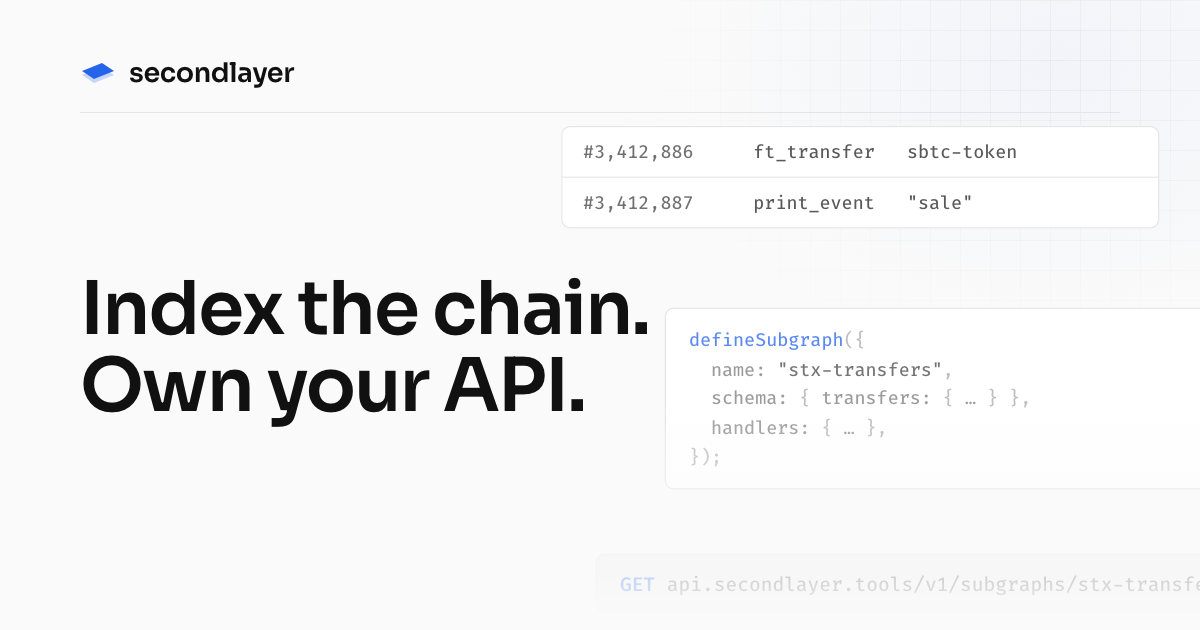
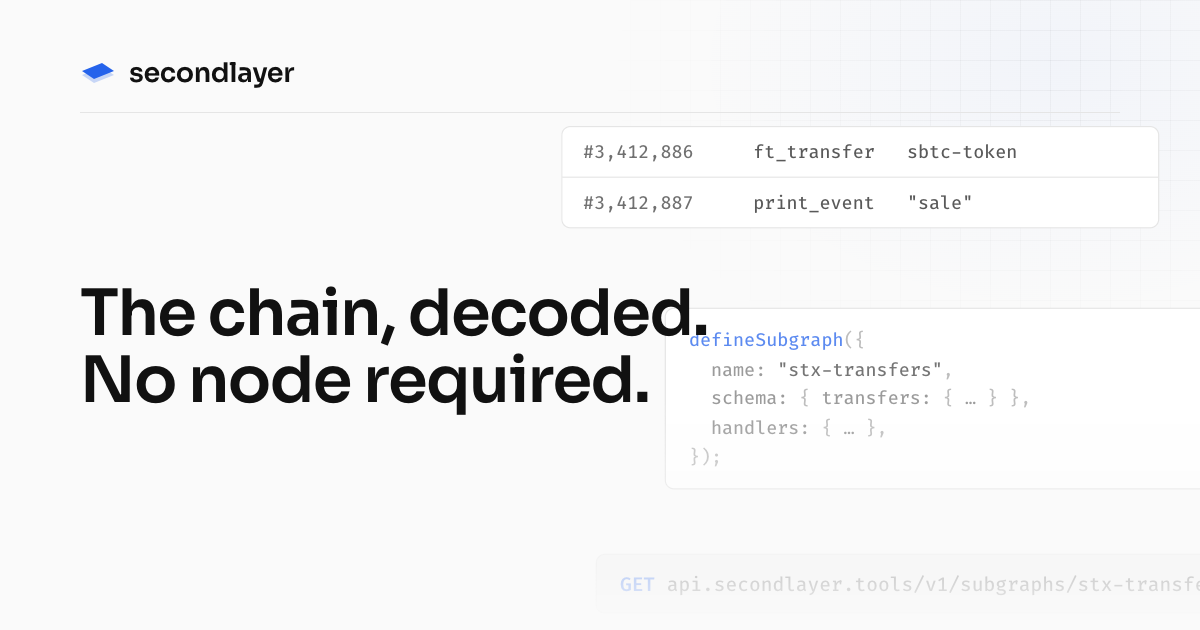
feat(web): decoded-chain hero and reads-free pricing reframe

Changed region(s): [[0.0617, 0.4222, 0.5858, 0.6937]]

diff --git a/apps/web/src/app/(www)/pricing/page.tsx b/apps/web/src/app/(www)/pricing/page.tsx
@@ -7,16 +7,14 @@ import Link from "next/link";
 export const metadata: Metadata = socialMeta({
 	title: "Pricing · secondlayer",
 	description:
-		"Free is the product, paid is the headroom. Rate-limited public reads for everyone and a permanent free tier.",
+		"Reads are keyless and free for everyone. Pay when you want it hosted — your tables, webhooks, and backfills on our infra. The whole stack is also MIT to self-host.",
 	image: "/og/pricing.png",
 	path: "/pricing",
 });
 
 const FREE_INCLUDES = [
-	"Rate-limited public reads on Index and Streams",
+	"Keyless decoded reads on Index and Streams",
 	"Ghost keys from your terminal, no signup",
-	"Public subgraphs, live from deploy",
-	"3 webhook subscriptions",
 	"Signed Streams bulk dumps",
 	"MCP server + agent skills",
 ];
@@ -24,7 +22,7 @@ const FREE_INCLUDES = [
 // Every claim below maps to an enforced limit. If code doesn't enforce it,
 // it doesn't go on a card.
 const PRO_INCLUDES = [
-	"Private subgraphs",
+	"Deploy subgraphs — public and private",
 	"Genesis backfills (full history)",
 	"25 webhook subscriptions + replay",
 	"250 req/s on Index and Streams",
@@ -38,15 +36,19 @@ const ENTERPRISE_SUMMARY =
 const FAQ = [
 	{
 		q: "What stays free forever?",
-		a: "Rate-limited public reads — anonymous on Index, with a free key on Streams — plus signed bulk dumps and the free tier above. Public data stays public.",
+		a: "Keyless public reads — anonymous on Index, with a free key on Streams — plus signed bulk dumps. No account, no card. Public data stays public.",
 	},
 	{
 		q: "What does a paid plan actually buy?",
-		a: "Capacity and guarantees: a bigger request budget under your own key, more subgraphs (including private ones), full genesis backfills instead of forward-only indexing, longer webhook retention, support and SLAs. Never access to public data.",
+		a: "We host it for you: deploy public and private subgraphs, full genesis backfills, webhooks with replay, a bigger request budget, usage budgets, and support — provisioned and on-call on our infra. Never access to public data; reads are free either way.",
 	},
 	{
-		q: "When does billing start?",
-		a: "When open beta ends, with notice. Usage dashboards ship first, so you can see exactly where you'd land before a card is ever involved.",
+		q: "How does the trial work?",
+		a: "Every paid plan opens with a 14-day trial — card on file, cancel anytime. Usage dashboards show exactly where you'd land before anything bills.",
+	},
+	{
+		q: "Can I run it myself?",
+		a: "Yes — the whole stack is MIT-licensed. docker compose up runs the indexer, API, and processor on your own hardware. Paid plans are for when you'd rather we run it.",
 	},
 ];
 
@@ -61,20 +63,21 @@ export default function PricingPage() {
 					<>
 						Reads are free.
 						<br />
-						Pay for headroom.
+						Hosting is paid.
 					</>
 				}
 			>
-				Public reads are rate-limited for everyone and the free tier is
-				permanent. Paid plans buy capacity and guarantees, never access to
-				public data.
+				Keyless decoded reads are free for everyone — no account, no card. When
+				you want it run for you — your tables, webhooks, and backfills on our
+				infra — that's Pro at $99/mo. The whole stack is MIT, so self-hosting is
+				always an option.
 			</MarketingPageHeader>
 
 			<div className="prc-cta-band">
 				<div className="prc-cta-band-copy">
-					<p className="prc-cta-band-title">Start free — no signup, no card.</p>
+					<p className="prc-cta-band-title">Read free — no signup, no card.</p>
 					<p className="prc-cta-band-sub">
-						Mint a key from your terminal and you're indexing in minutes.
+						Curl decoded data in ten seconds, or grab the SDK.
 					</p>
 				</div>
 				<CtaPill />
@@ -82,15 +85,15 @@ export default function PricingPage() {
 
 			<div className="prc-split">
 				<div className="prc-plan prc-free">
-					<span className="prc-plan-eyebrow">Free · forever</span>
+					<span className="prc-plan-eyebrow">Free · no account</span>
 					<p className="prc-plan-price">$0</p>
 					<ul>
 						{FREE_INCLUDES.map((f) => (
 							<li key={f}>{f}</li>
 						))}
 					</ul>
-					<Link href="/login" className="prc-plan-cta prc-cta-ghost">
-						Mint a key
+					<Link href="/docs" className="prc-plan-cta prc-cta-ghost">
+						Start reading
 					</Link>
 				</div>
 				<div className="prc-plan prc-pro">
@@ -98,14 +101,14 @@ export default function PricingPage() {
 					<p className="prc-plan-price">
 						$99<small>/mo</small>
 					</p>
-					<p className="prc-plan-cont">Everything in Free, plus</p>
+					<p className="prc-plan-cont">We host it. You ship.</p>
 					<ul>
 						{PRO_INCLUDES.map((f) => (
 							<li key={f}>{f}</li>
 						))}
 					</ul>
 					<Link href="/login" className="prc-plan-cta prc-cta-pro">
-						Start Pro
+						Start 14-day trial
 					</Link>
 				</div>
 			</div>

diff --git a/apps/web/src/app/(www)/www.smoke.test.tsx b/apps/web/src/app/(www)/www.smoke.test.tsx
@@ -31,9 +31,9 @@ describe("www marketing routes", () => {
 		expect(html).toContain('class="home"');
 		// Hero: release pill + headline + sub.
 		expect(html).toContain("Explore subgraphs is live");
-		expect(html).toContain("Index the chain.");
-		expect(html).toContain("Own your API.");
-		expect(html).toContain("hosted indexer for Stacks");
+		expect(html).toContain("The chain, decoded.");
+		expect(html).toContain("No node required.");
+		expect(html).toContain("sBTC peg event");
 		// CTA pair: install/mint pill (client component renders install mode in
 		// static markup) + docs ghost link.
 		expect(html).toContain("npm install @secondlayer/sdk");
@@ -46,16 +46,16 @@ describe("www marketing routes", () => {
 
 	test("/pricing renders the free-first billing page", () => {
 		const html = renderToStaticMarkup(<PricingPage />);
-		// free-first framing + beta honesty
+		// reads-free / hosting-paid framing + self-host honesty
 		expect(html).toContain("Reads are free.");
-		expect(html).toContain("Pay for headroom.");
-		expect(html).toContain("When open beta ends");
-		// honest free promise
+		expect(html).toContain("Hosting is paid.");
+		expect(html).toContain("14-day trial");
+		// honest free promise: keyless reads, no account
 		expect(html).toContain("$0");
-		expect(html).toContain("Rate-limited public reads");
+		expect(html).toContain("Keyless decoded reads");
 		// paid ladder is Free/Pro only; enterprise has no number
 		expect(html).toContain("$99");
-		expect(html).toContain("Private subgraphs");
+		expect(html).toContain("public and private");
 		expect(html).toContain("Contact Us");
 		expect(html).not.toContain("$499");
 		expect(html).not.toContain("$1.5k");

diff --git a/apps/web/src/app/(www)/page.tsx b/apps/web/src/app/(www)/page.tsx
@@ -9,9 +9,9 @@ import type { Metadata } from "next";
 import Link from "next/link";
 
 export const metadata: Metadata = socialMeta({
-	title: "secondlayer — index the chain, own your API",
+	title: "secondlayer — the chain, decoded",
 	description:
-		"The hosted indexer for Stacks: we capture and decode every event, you define the tables and ship the API. No node, no infra, readable by anyone.",
+		"Every transfer, contract call, and sBTC peg event on Stacks — decoded into typed JSON. Read it keyless over REST, the SDK, or your agent. No node required.",
 	image: "/og/home.png",
 	path: "/",
 });
@@ -55,14 +55,14 @@ export function HomeView({ status }: { status: SystemStatus | null }) {
 					<span className="home-pill-arr">→</span>
 				</Link>
 				<h1>
-					Index the chain.
+					The chain, decoded.
 					<br />
-					Own your API.
+					No node required.
 				</h1>
 				<p className="home-sub">
-					Secondlayer is the hosted indexer for Stacks: we capture and decode
-					every event, you define the tables and ship the API. No node, no
-					infra, readable by anyone.
+					Every transfer, contract call, and sBTC peg event on Stacks — decoded
+					into typed JSON. Read it keyless over REST, the SDK, or your agent.
+					Outgrow the read? Deploy your own indexer in one file.
 				</p>
 				<div className="home-ctas">
 					<CtaPill />